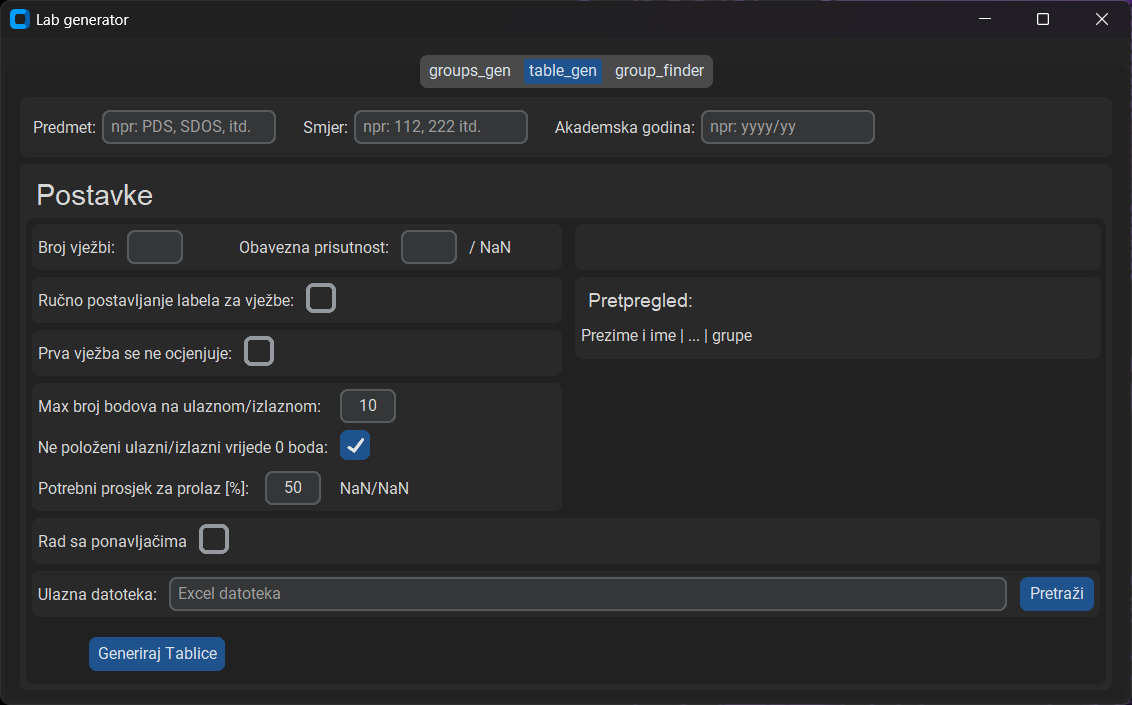
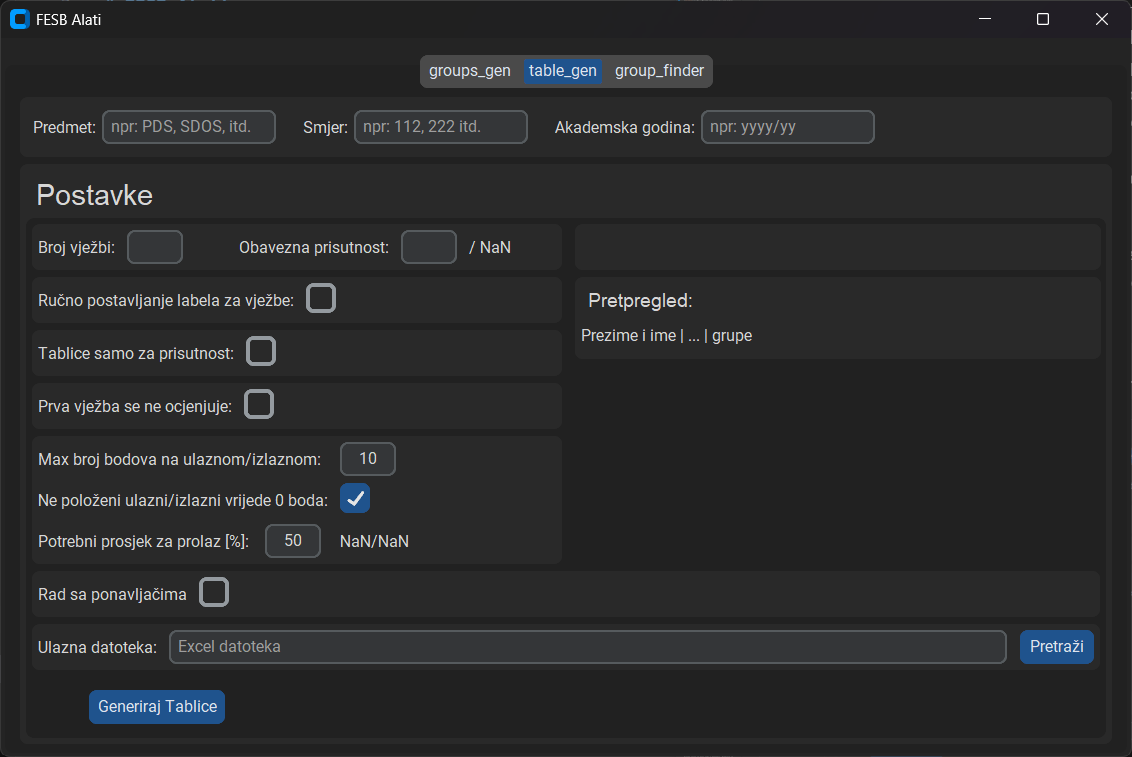
Readme update

diff --git a/README.md b/README.md
@@ -44,7 +44,7 @@ Sustav za preuzimanje rasporeda studenata ('src/Raspored_scraping') je napravio 
 ## Instaliranje programa
 
 Windows:
-1. Preuzeti 'FESB_Alati-v1.1.0.zip' sa poveznice [Release](https://github.com/skmhaupt/FESB-Alati/releases/latest).
+1. Preuzeti 'FESB_Alati-v#.#.#.zip' sa poveznice [Release](https://github.com/skmhaupt/FESB-Alati/releases/latest).
 2. Rraspakirati preuzeti direktorij.
 3. Program se pokreće otvaranjem 'FESB_Alati-v1.1.0.exe' datoteke
 4. Po želji napraviti poveznicu za 'FESB_Alati-v1.1.0.exe' datoteku na radnu površinu.
@@ -203,6 +203,8 @@ Ovom funkcijom se generiraju tablice za evidenciju lab vježbi. Za rad je potreb
 Također se može, umjesto datoteke iz prethodne sekcije, koristiti i datoteka sa merlina koja se dobije ako su studenti birali grupe kroz anketu.
 
 Pretpregled prikazuje kako će izgledati zaglavlje osnovne tablica sa bodovima. Ukoliko korisnik zada 'broj vježbi = 3', u pretpregledu ce se prikazati 'Prezime i ime | Lab1 | Lab2 | Lab3 | Grupe'. Ukoliko korisnik ne želi koristiti labele 'Lab1, Lab2,...' ima opciju ručnog postavljanja labela, ali mora voditi računa o tome da se broj labela poklapa sa brojem vježbi. 
+
+Postavka 'Tablice samo za prisutnost:' se koristi ako na vježbama nema provjere znanja. Također je uz ovu postavku dostupna i postavka 'Dodatni bodovi' koja uz evidenciju prisutnosti daje mogučnost upisivanja bodova. Postavke oko bodoba za ulazne/izlazne se zanemaruju kad se generira tablica samo za prisutnost.
 
 Postavka 'Prva vježba se ne ocjenjuje:' se koristi ako na prvoj vježbi nema provjere znanja, odnosno kad je potrebna samo prisutnost. Time vježba jedan ne nosi bodove i ne ulazi u prosjek, ali se racuna pri potrebnoj prisutnosti. Ako se uključi ova postavka pojavit če se druga postavka za 'lab0'. Ova druga postavka je korisna ukoliko se koristi takozvana 'nulta vježba'. U slučaj korištenja ove druge postavke, če se u excel tablici ubaciti novi stupac 'Lab0'. Novi 'Lab0' stupac je sad taj koji se ne ocjenjuje umjesto 'Lab1' stupac. __Postavka za 'lab0' nije dostupna ukoliko se ručno postavljaju labele.__ 
 
